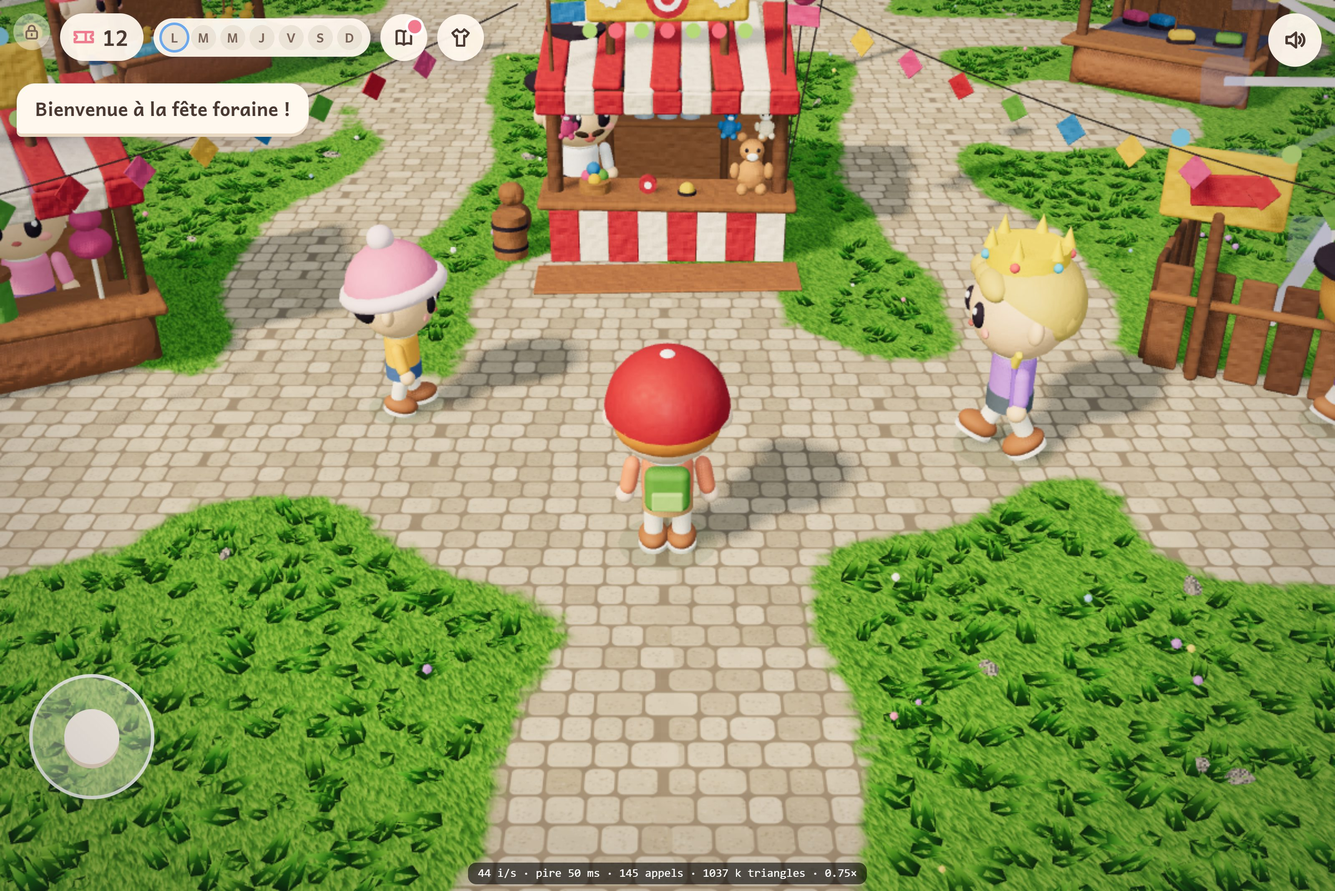
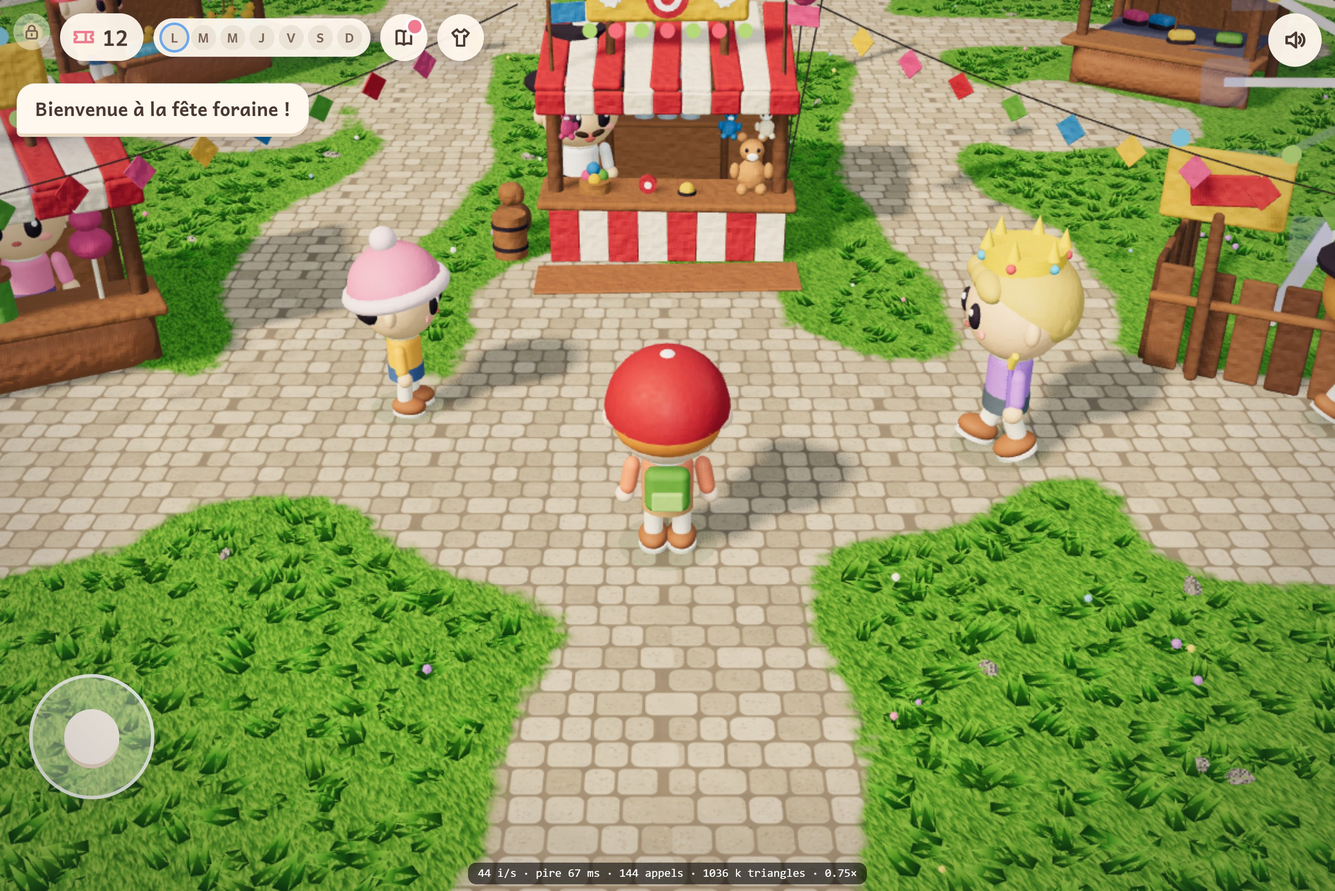
Gazon : brins un peu plus clairs

diff --git a/src/scene/qualite.ts b/src/scene/qualite.ts
@@ -173,8 +173,8 @@ export interface Herbe {
 function touffe(): THREE.BufferGeometry {
   const positions: number[] = [];
   const couleurs: number[] = [];
-  const base = new THREE.Color(0x2a5c10);
-  const pointe = new THREE.Color(0x8ccb36);
+  const base = new THREE.Color(0x3b7619);
+  const pointe = new THREE.Color(0x9ad646);
   for (let b = 0; b < 5; b++) {
     const a = (b / 5) * Math.PI * 2;
     const ox = Math.cos(a) * 0.09;
@@ -246,7 +246,7 @@ export function semerHerbe(
     const largeur = 0.7 + hasard() * 0.6;
     s.set(largeur, hauteur, largeur);
     touffes.setMatrixAt(n, m.compose(p, q, s));
-    touffes.setColorAt(n, c.setHSL(0.25 + hasard() * 0.04, 0.55 + hasard() * 0.2, 0.42 + hasard() * 0.14));
+    touffes.setColorAt(n, c.setHSL(0.25 + hasard() * 0.04, 0.55 + hasard() * 0.2, 0.5 + hasard() * 0.12));
     n++;
   }
   touffes.count = n;
